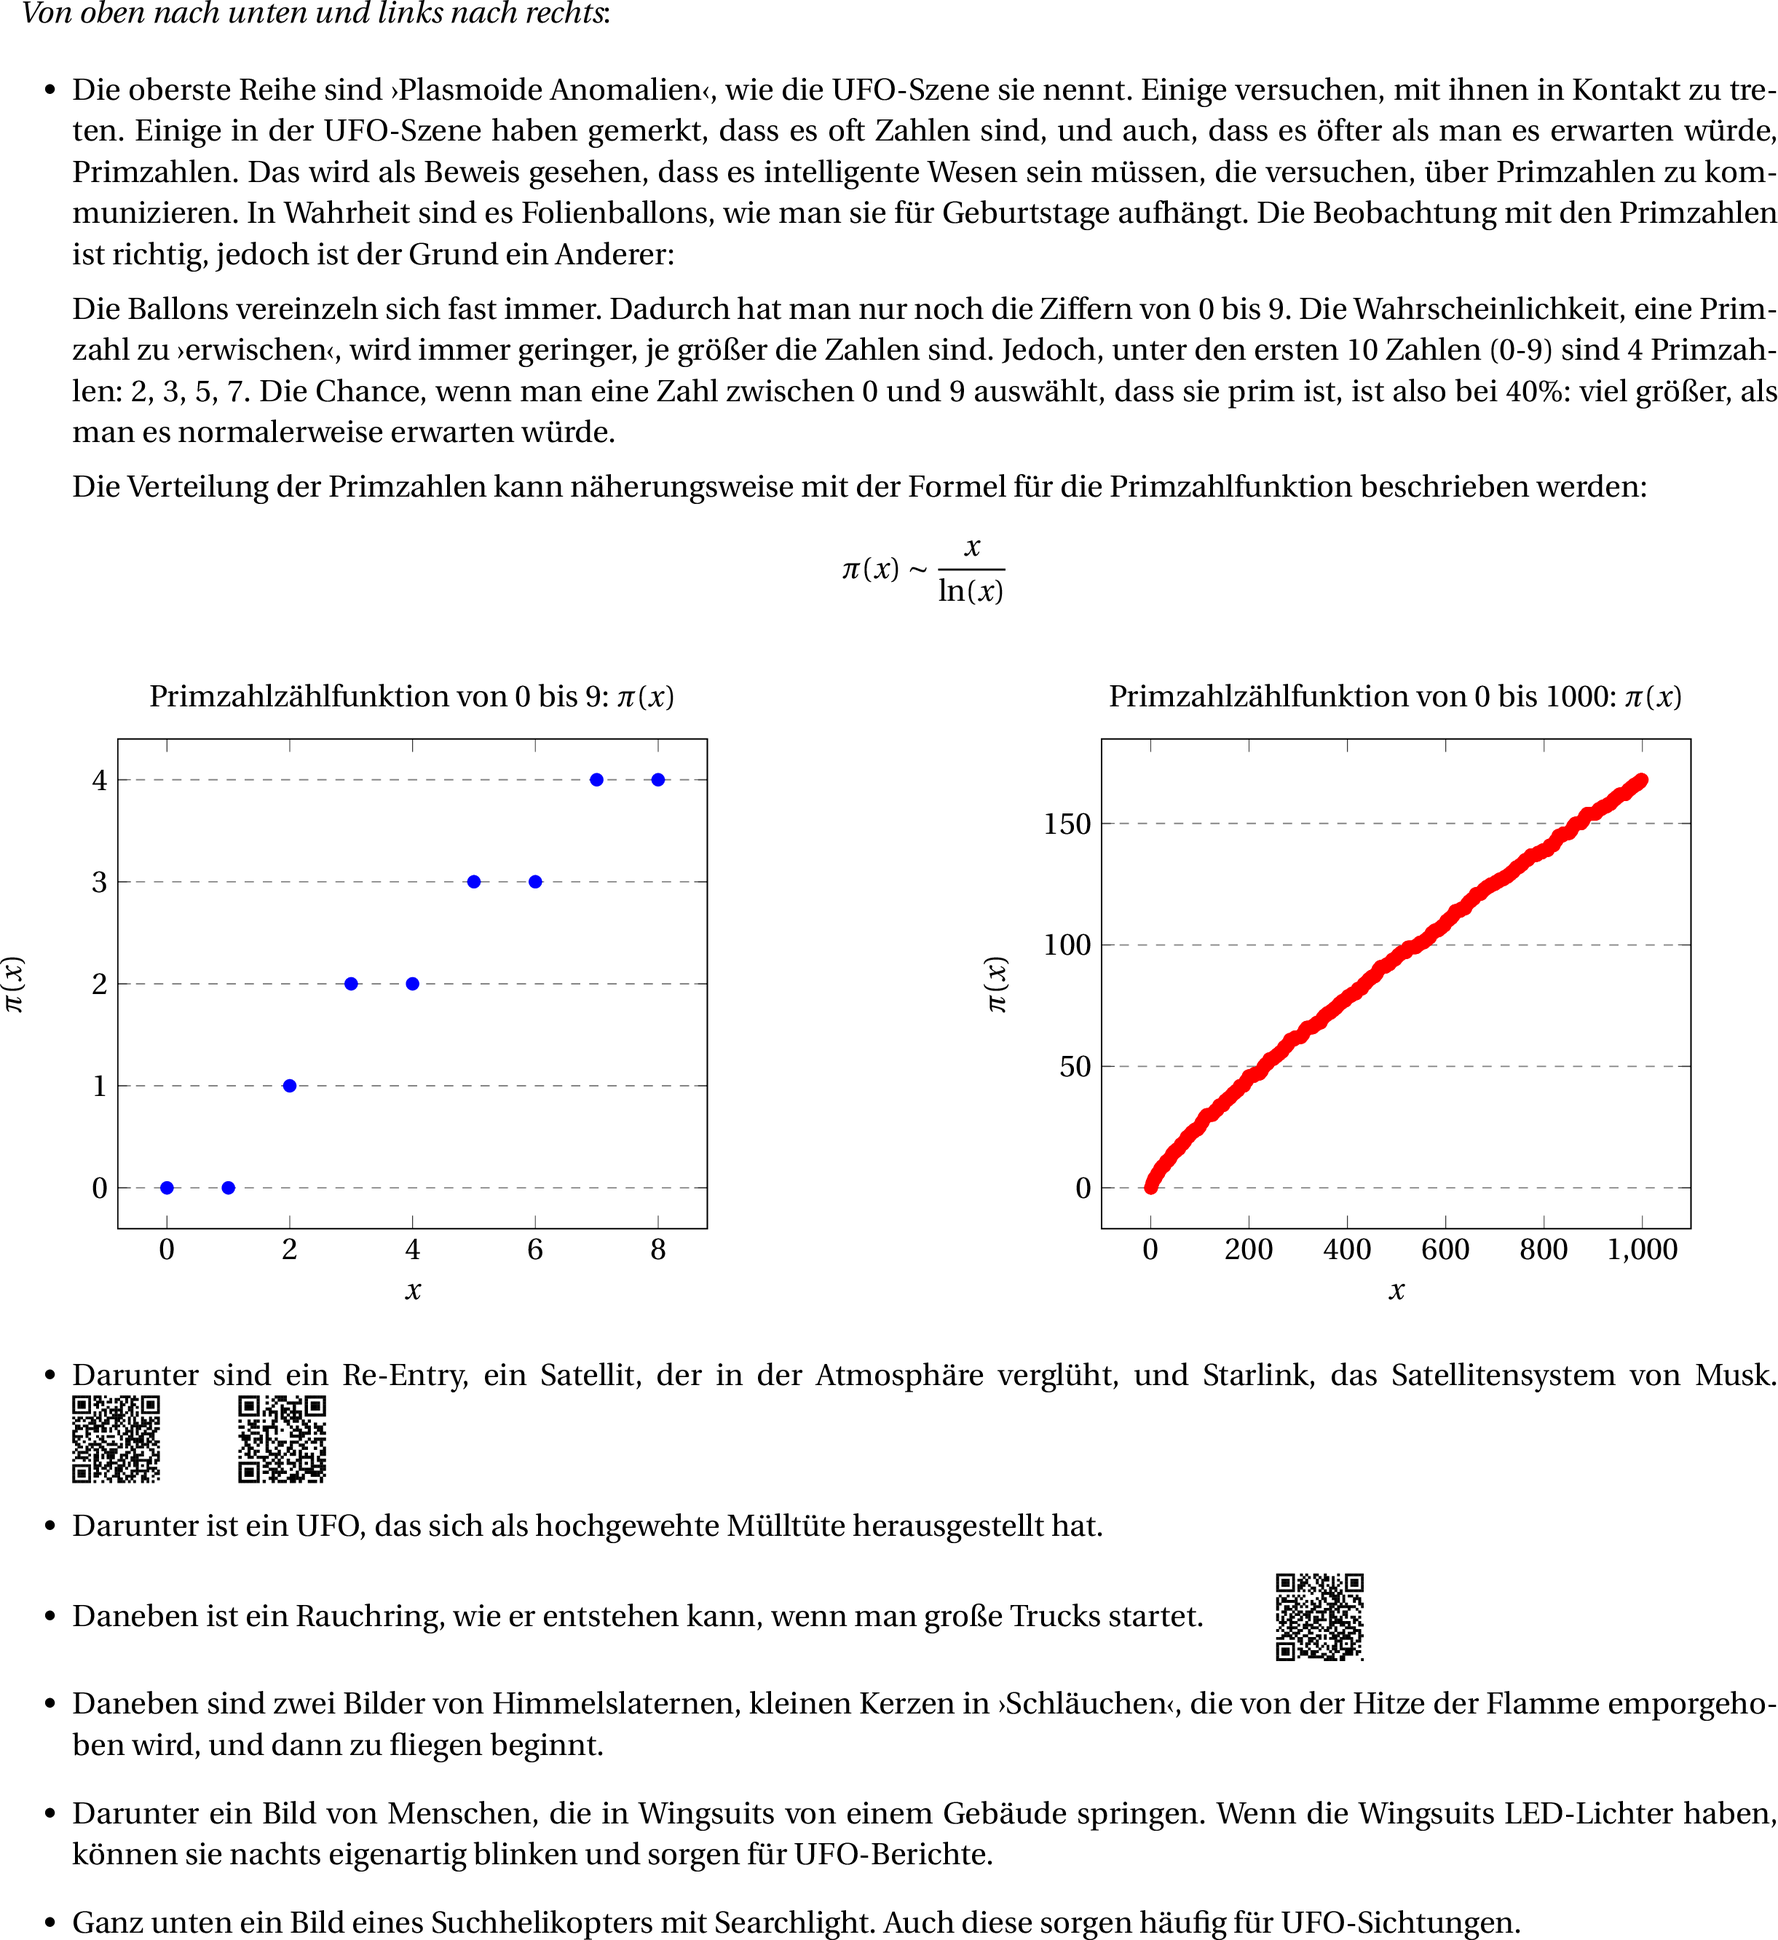
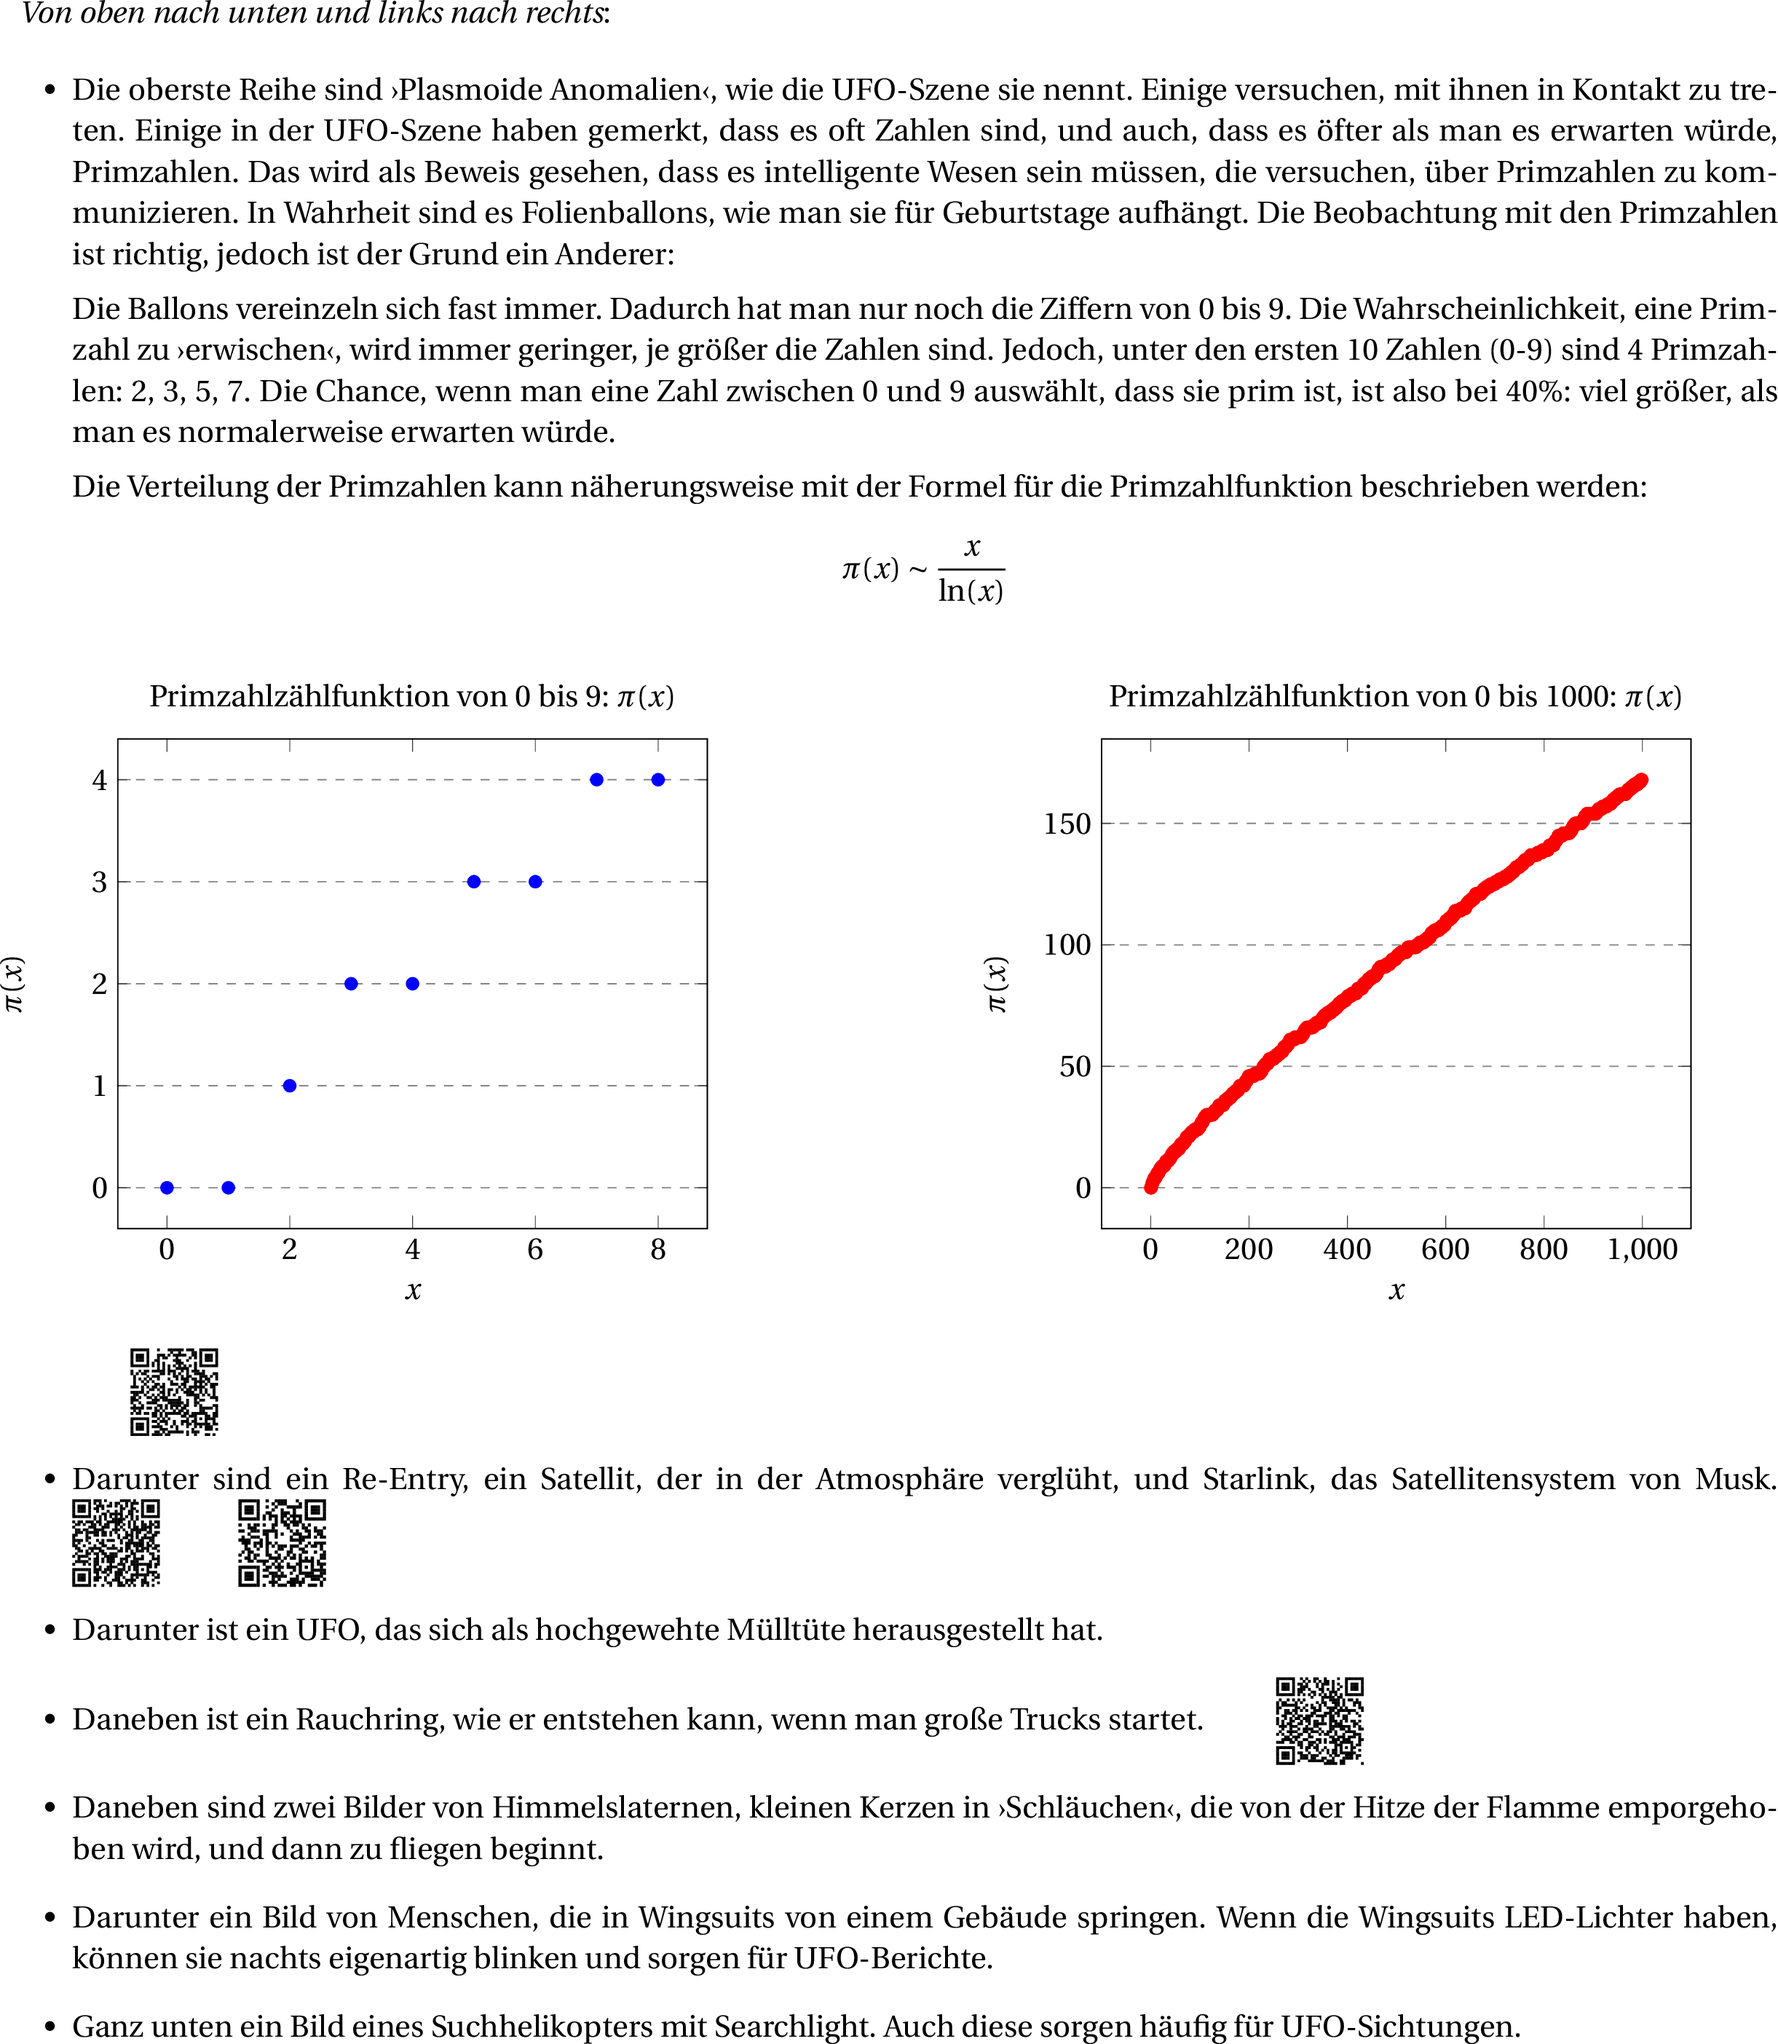
fix

diff --git a/poster/05/05.tex b/poster/05/05.tex
@@ -95,6 +95,8 @@
         \end{minipage}
     \end{figure}
 
+    \qr{https://en.wikipedia.org/wiki/Prime-counting_function}
+
     \item Darunter sind ein Re-Entry, ein Satellit, der in der Atmosphäre verglüht, und Starlink, das Satellitensystem von Musk. \qr{https://en.wikipedia.org/wiki/Atmospheric_entry} \qr{https://en.wikipedia.org/wiki/Starlink}
     \item Darunter ist ein UFO, das sich als hochgewehte Mülltüte herausgestellt hat.
     \item Daneben ist ein Rauchring, wie er entstehen kann, wenn man große Trucks startet. \qr{https://www.youtube.com/watch?v=f1RmsJ1Rv9M}
